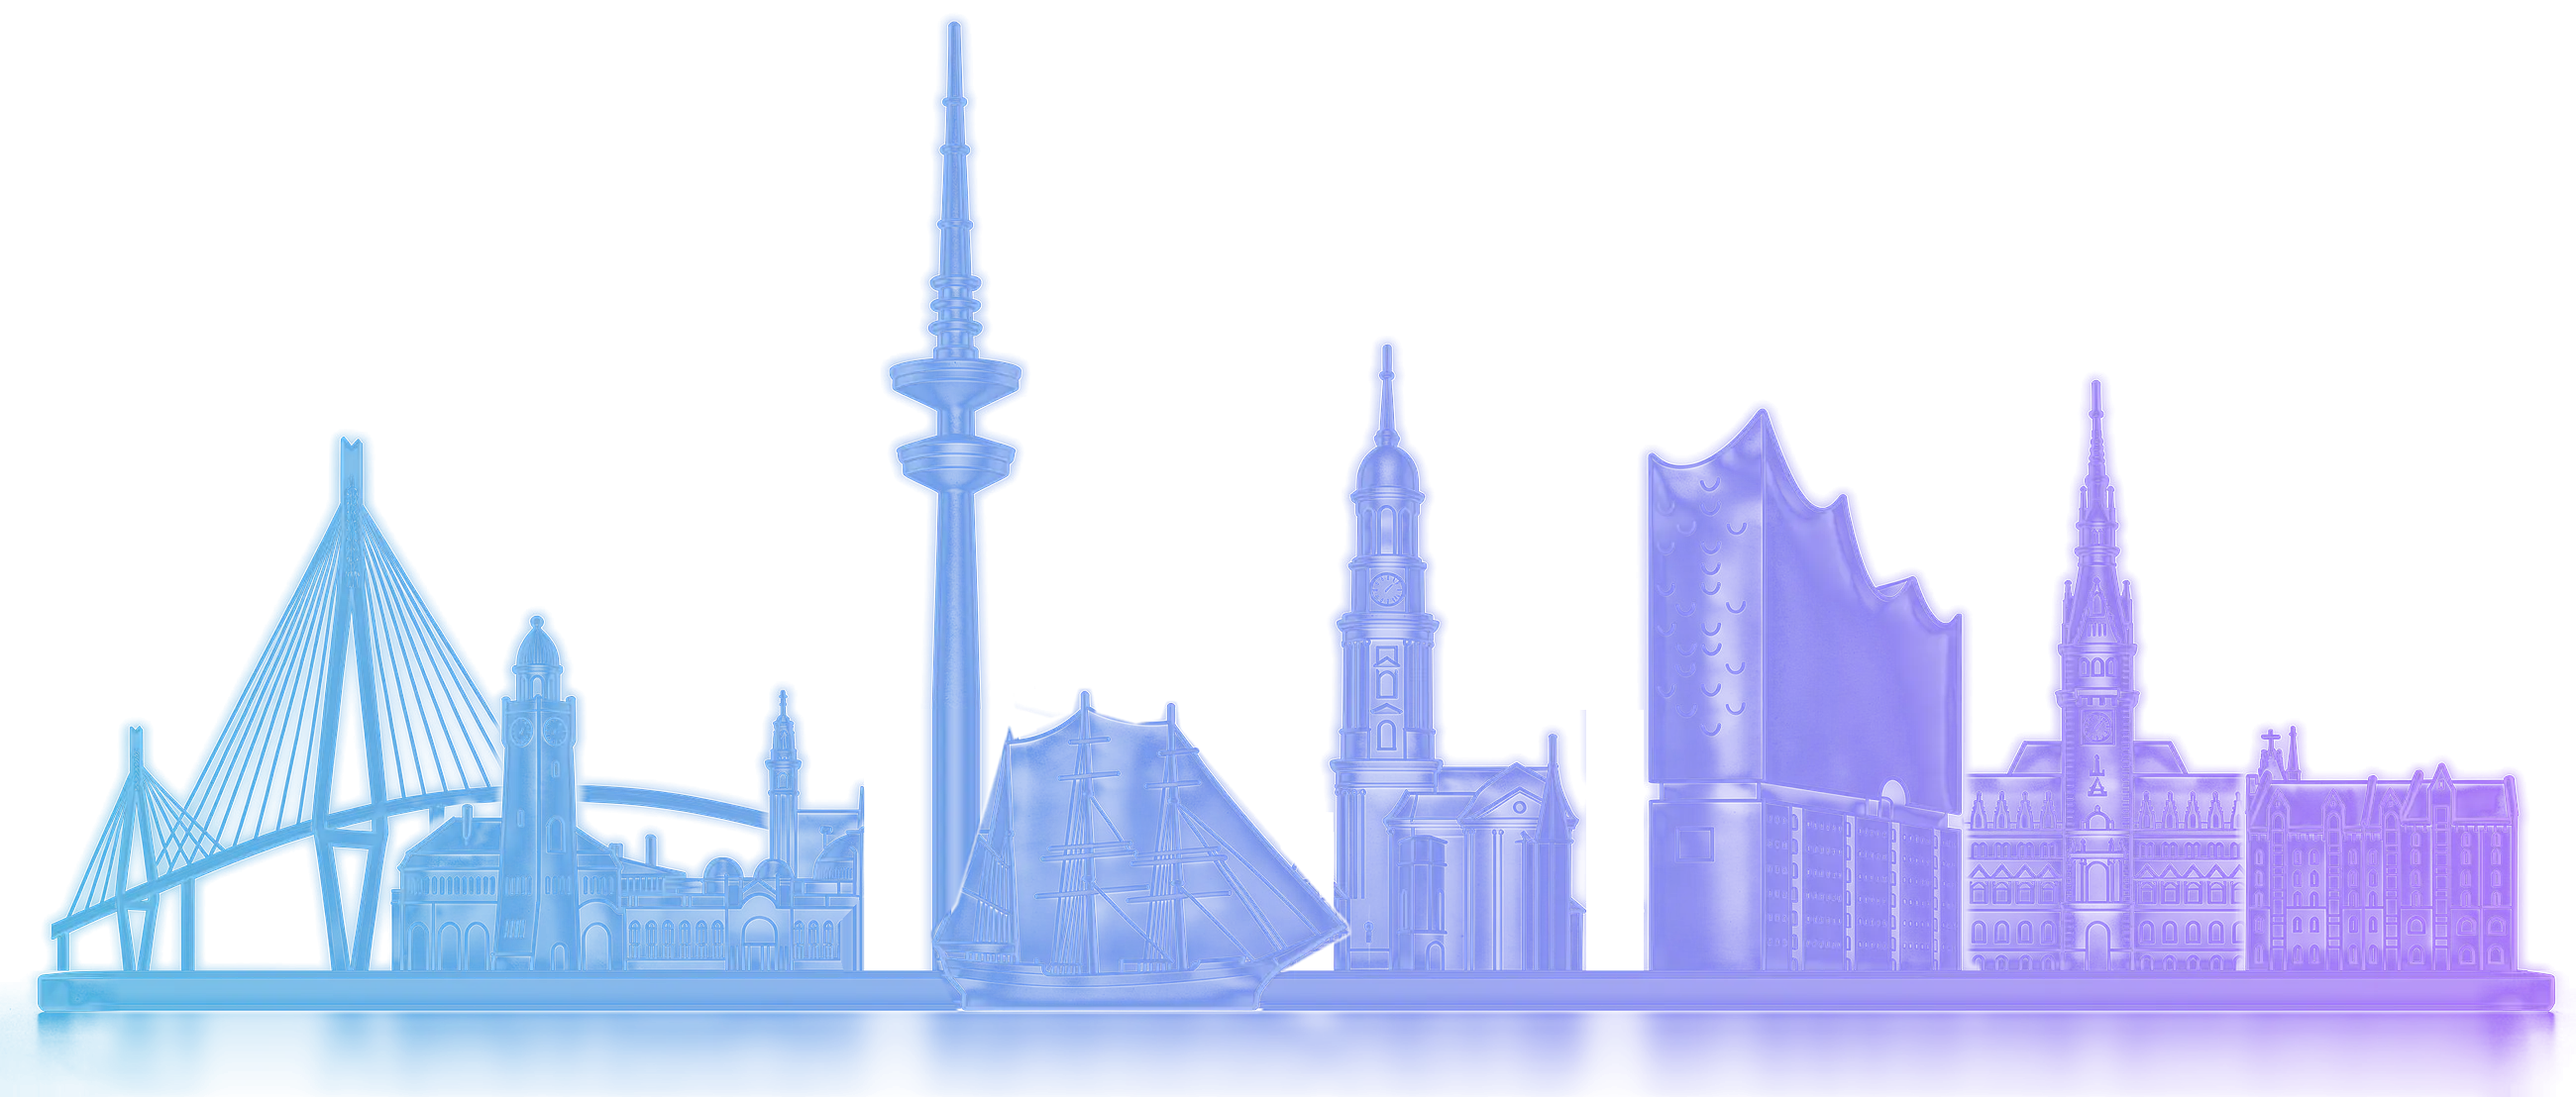
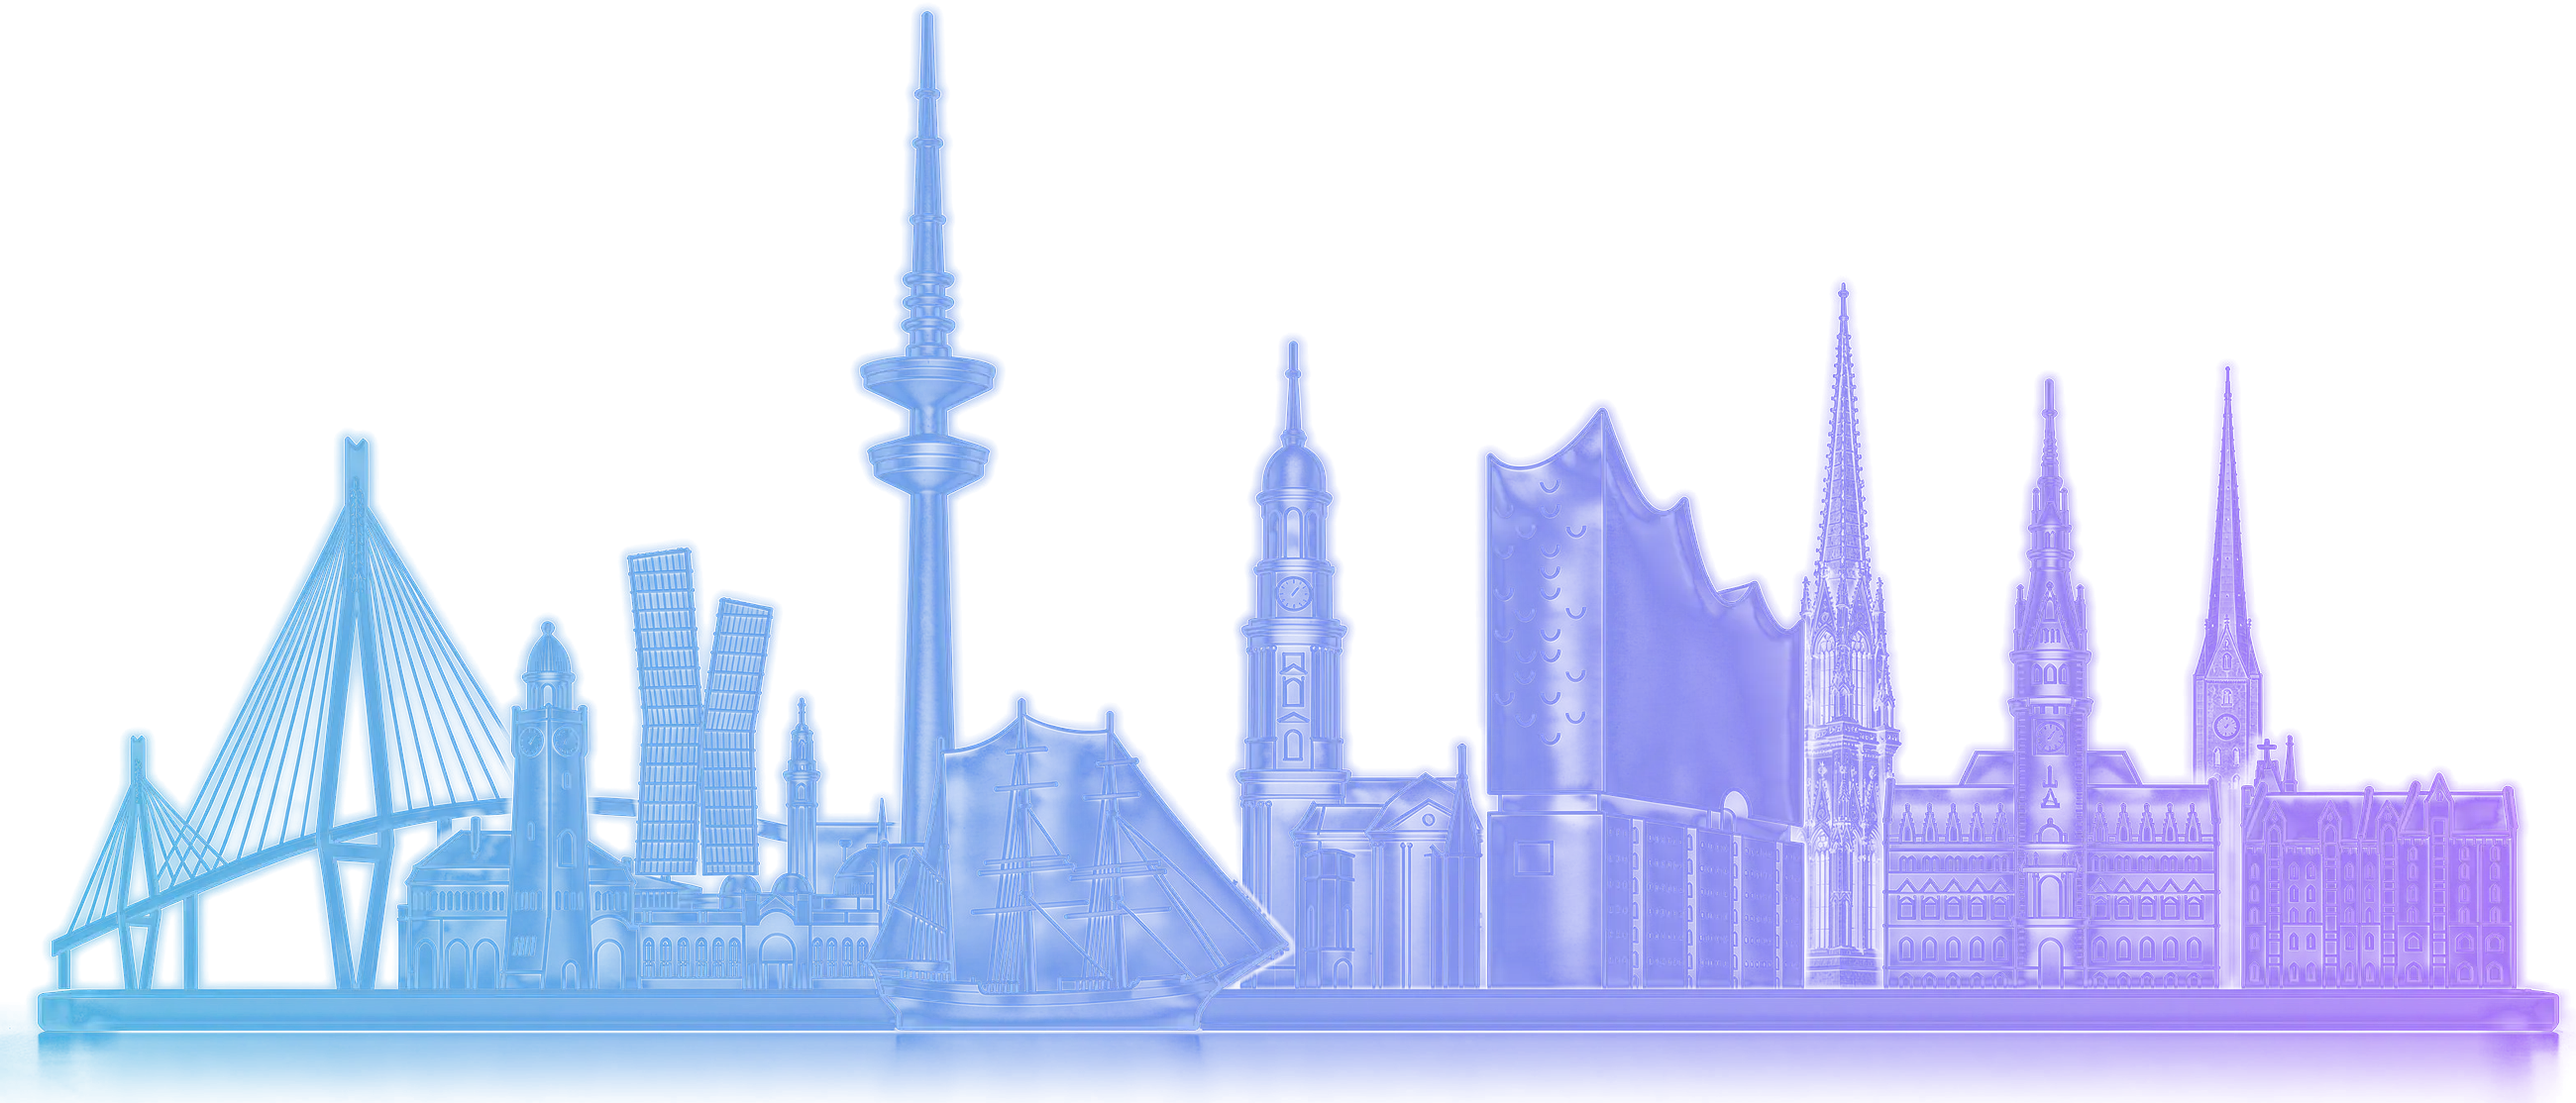
feat(lavender): skyline rendered in one piece, buildings overlapping again
New FLUX rendering with the Tanzende Tuerme, St. Nikolai and St. Petri in
a back row; nothing cut by hand. Landmark positions and picture ratio
follow; the footer strip fits on narrow phones.

Claude-Session: https://claude.ai/code/session_01HutgGfgwiiTnT4X53NFX4e

Changed region(s): [[0.0, 0.0, 0.9969, 1.0]]

diff --git a/src/components/lavender/HamburgGlass.tsx b/src/components/lavender/HamburgGlass.tsx
@@ -11,7 +11,7 @@ import { cn } from '@/components/ui/utils';
  * coloured blue to violet).
  *
  * Two congruent renderings with a transparent ground
- * (public/images/hamburg-glas-*.webp, 2600 × 1108): one unlit, one lit from
+ * (public/images/hamburg-glas-*.webp, 2600 × 1114): one unlit, one lit from
  * inside in the double star's colours. No blend mode, so the city may stand
  * in a sticky or transformed parent. At rest the city is dark; the lit rendering shows through an elliptical
  * mask that follows the pointer (styles: .lav-hamburg in globals.css).
@@ -30,12 +30,14 @@ import { cn } from '@/components/ui/utils';
 // From west to east, as the city lies along the Elbe.
 const LANDMARKS = [
   { x: 0.118, half: 0.09, y: 0.68 }, // Köhlbrandbrücke
-  { x: 0.24, half: 0.09, y: 0.78 }, // Landungsbrücken
-  { x: 0.369, half: 0.03, y: 0.45 }, // Fernsehturm
-  { x: 0.444, half: 0.082, y: 0.78 }, // Rickmer Rickmers
-  { x: 0.555, half: 0.05, y: 0.6 }, // Michel
-  { x: 0.7, half: 0.063, y: 0.64 }, // Elbphilharmonie
-  { x: 0.814, half: 0.06, y: 0.64 }, // Rathaus
+  { x: 0.245, half: 0.09, y: 0.78 }, // Landungsbrücken, dahinter die Tanzenden Türme
+  { x: 0.36, half: 0.03, y: 0.45 }, // Fernsehturm
+  { x: 0.419, half: 0.082, y: 0.78 }, // Rickmer Rickmers
+  { x: 0.52, half: 0.05, y: 0.6 }, // Michel
+  { x: 0.639, half: 0.063, y: 0.64 }, // Elbphilharmonie
+  { x: 0.716, half: 0.03, y: 0.55 }, // St. Nikolai
+  { x: 0.796, half: 0.065, y: 0.64 }, // Rathaus
+  { x: 0.864, half: 0.03, y: 0.55 }, // St. Petri
   { x: 0.924, half: 0.055, y: 0.8 }, // Speicherstadt
 ] as const;
 

diff --git a/src/components/lavender/nightSky.ts b/src/components/lavender/nightSky.ts
@@ -33,7 +33,7 @@ const DEFAULT_SOURCES = { double: '/images/nacht-stern-doppel.webp' };
 /** Mostly white, a few in the brand's light tints. */
 const TINTS = ['#ffffff', '#ffffff', '#ffffff', '#f5e1ff', '#bde3f4', '#bde3f4'];
 /** Height / width of the Hamburg rendering (HamburgGlass). */
-const SKYLINE_RATIO = 1108 / 2600;
+const SKYLINE_RATIO = 1114 / 2600;
 
 type FieldStar = { angle: number; radius: number; size: number; tint: string; rate: number; phase: number };
 /** One star glinting: which one, since when, for how long, and how long its cross gets (px). */

diff --git a/src/styles/globals.css b/src/styles/globals.css
@@ -857,7 +857,7 @@ html {
      round window that follows the pointer (HamburgGlass.tsx moves it). */
   .lav-hamburg {
     position: relative;
-    aspect-ratio: 2600 / 1108;
+    aspect-ratio: 2600 / 1114;
     touch-action: pan-y;
   }
   .lav-hamburg > div,

diff --git a/docs/design-migration.md b/docs/design-migration.md
@@ -220,13 +220,14 @@ Stand:
       (NightFooter.tsx: Schlusszeile, Glas-Skyline, Leiste mit „Based in Hamburg.“, Impressum,
       Datenschutz, LinkedIn, Nach oben) statt `ClosingBlock` / `Footer`. Sprünge zu Abschnitten
       laufen über `glide.ts` (folgt dem Ziel, auch wenn sich die Seite verschiebt). Die Skyline
-      ist eine neue Fassung (FLORA, FLUX 3; 2600 × 1108; seit 13.11. nachmittags mit den
-      Gebäuden in der Reihenfolge von West nach Ost: Köhlbrandbrücke (statt der Hafenkräne; ihre
-      Fahrbahn läuft hinter den Landungsbrücken aus), Landungsbrücken, Fernsehturm,
-      Rickmer Rickmers, Michel, Elbphilharmonie, Rathaus, Speicherstadt, rechts mit Luft zwischen den
-      Gebäuden; Bodenplatte mit runden Enden und Boden aus der ersten Fassung übernommen, die
-      Spiegelung folgt den Gebäuden; im Hero tritt die Stadt nur noch direkt hinter dem Text
-      zurück (`useTextHaze`: weiche Löcher um jede Textzeile und den Knopf statt eines großen Ovals); beleuchtet = dieselbe Fassung in
+      ist eine neue Fassung (FLORA, FLUX 3; 2600 × 1114; Stand 13.11. nachmittags, in einem Stück
+      gerendert, nichts von Hand ausgeschnitten): von West nach Ost Köhlbrandbrücke,
+      Landungsbrücken, dahinter die Tanzenden Türme, Fernsehturm, Rickmer Rickmers, Michel,
+      Elbphilharmonie, dahinter St. Nikolai, Rathaus, dahinter St. Petri, Speicherstadt. Die
+      Gebäude überlappen sich wieder in der Tiefe. Im Hero tritt die Stadt nur direkt hinter dem
+      Text zurück (`textHaze.ts`: weiche Löcher um jede Textzeile und den Knopf statt eines großen
+      Ovals). Das Stadtlicht ist rund. Alle Seiten enden im selben Bild (`ClosingText`: Schlusszeile
+      mittig, Stadt am unteren Rand, Leiste mit Textlinks darunter); beleuchtet = dieselbe Fassung in
       Blau/Lila eingefärbt). Durchsicht mit drei Skill-Sammlungen (taste-skill, impeccable,
       Emil Kowalski): Fokusring auf dunklem Grund, einheitliche Außenkanten, Abstände in den
       Textblöcken (16/24/32), Leistungen mit fester Höhe beim Tab-Wechsel, Autor neben dem
